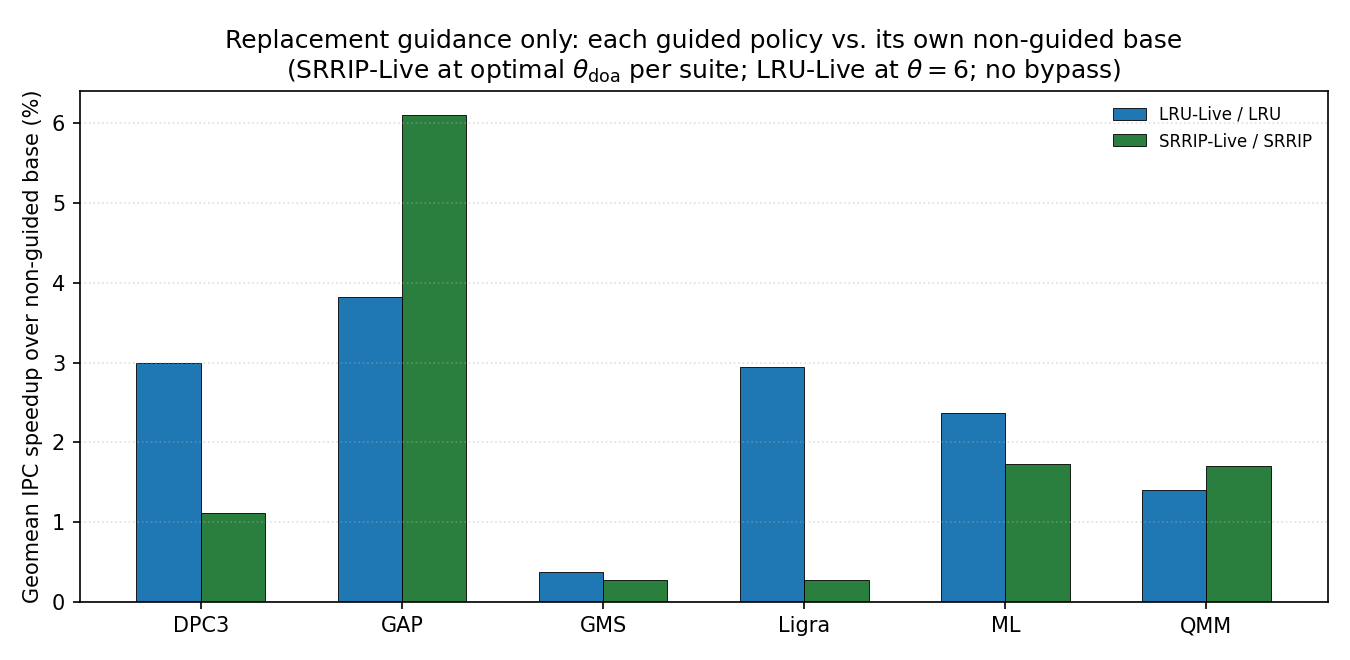
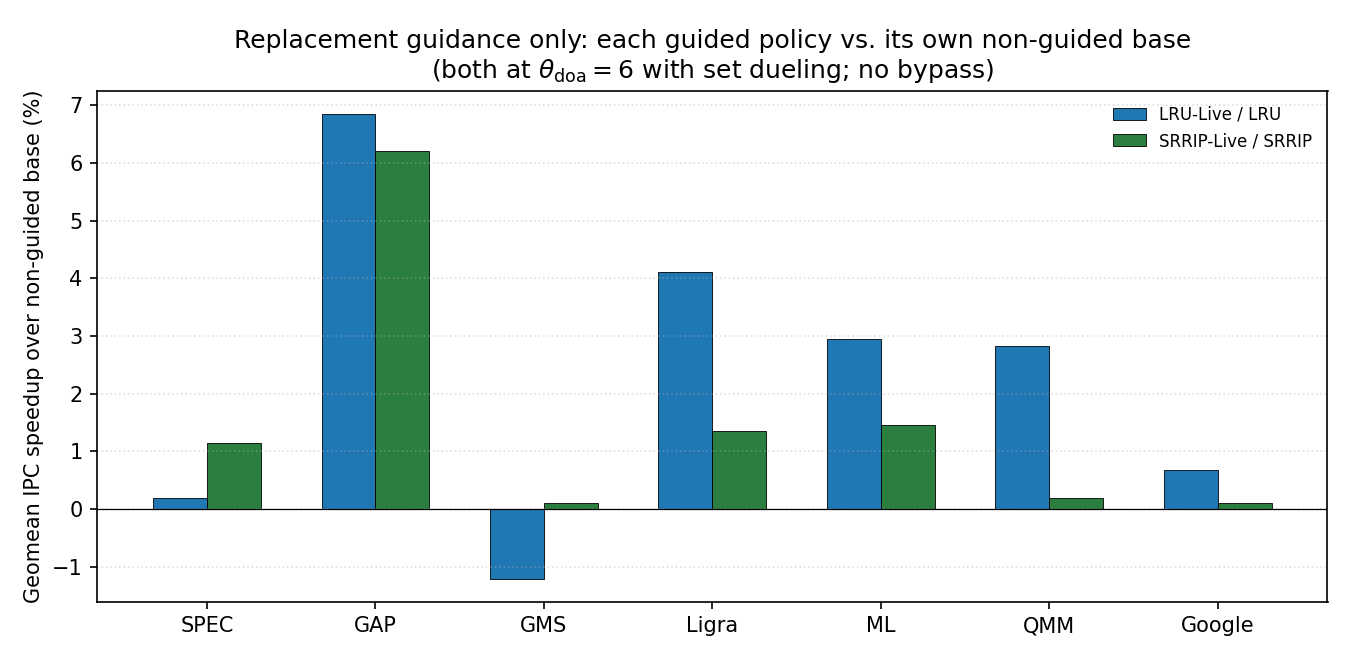
paper: rerender Figure 5 with consistent methodology, remove old Figure 4
plot_live_vs_base.py had hardcoded numbers from a mixed methodology:
SRRIP-Live at an old per-suite-optimal non-dueling threshold, LRU-Live
at a fixed single arm, and Google missing from the suite list entirely.
Rewrote it to compute live from baselines/lru, baselines/srrip, and the
theta=6 set-dueling result dirs -- both policies at the same anchor and
duel config used everywhere else in the paper, all 7 suites.

This changes the numbers: LRU-Live is now the stronger policy on 5 of 7
suites (was previously described as trading the top spot with SRRIP-Live
roughly evenly), and LRU-Live is actually negative on GMS (-1.2%) rather
than the old script's positive +0.38% -- the old numbers simply predate
the set-dueling methodology established later. Updated the prose in
Section VI.B to match; left the paper's "we adopt SRRIP-Live... at
competitive performance" conclusion itself untouched since revising that
recommendation is an editorial call, not a mechanical figure update.

Removed the old Figure 4 (per-benchmark/per-trace policy comparison,
fig:perpolicy) and its describing paragraph per explicit request. All
later figure numbers shift down by one (old Figure 5 is now Figure 4,
etc.) -- verified via a full two-pass pdflatex rebuild and the .aux
newlabel entries.

diff --git a/scripts/analysis/plot_live_vs_base.py b/scripts/analysis/plot_live_vs_base.py
@@ -1,46 +1,108 @@
 #!/usr/bin/env python3
 """Liveness contribution: each guided policy vs its OWN non-guided base
-(LRU-Live/LRU, SRRIP-Live/SRRIP) — optimal theta_doa per suite, no bypass.
+(LRU-Live/LRU, SRRIP-Live/SRRIP), no bypass. Both policies at the common
+THD_DOA=6 anchor with set dueling -- the current, consistent methodology
+(matches the arch-rerun scripts and Figure 2), not the old mixed one
+(SRRIP-Live at a per-suite-optimal non-dueling threshold, LRU-Live at a
+fixed single arm) this plot used previously.
 
 Sources:
-  SRRIP-Live: canonical phase sweep (allsuites_thd_phase{2,3}) at optimal
-    theta_doa per suite vs phase1/srrip baseline (champsim_srrip).
-    DPC3: theta=25 (95 traces, SimPoint-weighted); GAP: theta=6; GMS: theta=30;
-    Ligra: theta=25; ML: theta=16; QMM: theta=16.
-  LRU-Live: lru_live_vs_base_20260615_0855 vs baselines/lru at theta=6
-    (no threshold sweep available for LRU-Live).
+  LRU-Live:   results/lru_live_theta6_20260624_0126/.../duel vs baselines/lru
+  SRRIP-Live: results/srrip_live_theta6_20260623_1834/duel  vs baselines/srrip
 """
+import math
+import sys
+from pathlib import Path
+
 import matplotlib
 matplotlib.use("Agg")
 import matplotlib.pyplot as plt
 
-SUITES = ["DPC3", "GAP", "GMS", "Ligra", "ML", "QMM"]
+ROOT = Path(__file__).resolve().parents[2]
+sys.path.insert(0, str(Path(__file__).parent))
+from spec_weights import benchmark_weighted_geomean_pct  # noqa: E402
 
-# vs own non-guided base, % (DPC3 SimPoint-weighted; other suites flat geomean)
-# SRRIP-Live at optimal theta_doa per suite from canonical phase sweep (2026-06-20)
-SRRIP_LIVE = [1.11, 6.10, 0.27, 0.28, 1.73, 1.70]
-# LRU-Live at theta=6 (no sweep; never contaminated)
-LRU_LIVE   = [2.99, 3.82, 0.38, 2.95, 2.37, 1.40]
+LRU_LIVE_DIR = ROOT / "results" / "lru_live_theta6_20260624_0126" / "lru_live_theta6_20260624_0126" / "duel"
+SRRIP_LIVE_DIR = ROOT / "results" / "srrip_live_theta6_20260623_1834" / "duel"
 
-SERIES = [("LRU-Live / LRU",     LRU_LIVE,   "#1f77b4"),
-          ("SRRIP-Live / SRRIP", SRRIP_LIVE, "#2a7f3f")]
+SUITES = {"dpc3": "SPEC", "gap": "GAP", "gms": "GMS", "ligra": "Ligra",
+          "ml": "ML", "qmm": "QMM", "google": "Google"}
+WEIGHTED = {"dpc3"}
 
-x = list(range(len(SUITES)))
-w = 0.32
-fig, ax = plt.subplots(figsize=(9, 4.4))
-for i, (label, vals, color) in enumerate(SERIES):
-    off = (i - 0.5) * w
-    ax.bar([xi + off for xi in x], vals, w,
-           label=label, color=color, edgecolor="black", linewidth=0.4)
 
-ax.axhline(0, color="black", linewidth=0.6)
-ax.set_xticks(x); ax.set_xticklabels(SUITES)
-ax.set_ylabel("Geomean IPC speedup over non-guided base (%)")
-ax.set_title("Replacement guidance only: each guided policy vs. its own non-guided base\n"
-             "(SRRIP-Live at optimal $\\theta_{\\mathrm{doa}}$ per suite; LRU-Live at $\\theta=6$; no bypass)")
-ax.legend(frameon=False, fontsize=8)
-ax.grid(axis="y", linestyle=":", alpha=0.4)
-fig.tight_layout()
-out = "results/plots/live_vs_base.png"
-fig.savefig(out, dpi=150)
-print("wrote", out)
+def get_ipc(path):
+    try:
+        for line in reversed(Path(path).read_text().splitlines()):
+            if "CPU 0 cumulative IPC:" in line:
+                return float(line.split()[4])
+    except Exception:
+        pass
+    return None
+
+
+def suite_pct(base_dir, live_dir, suite):
+    bdir, ldir = base_dir / suite, live_dir / suite
+    if not bdir.is_dir() or not ldir.is_dir():
+        return None
+    base = {td.name: get_ipc(td / "champsim.out") for td in bdir.iterdir() if td.is_dir()}
+    base = {k: v for k, v in base.items() if v}
+    ratios = {}
+    for tr, b in base.items():
+        live = get_ipc(ldir / tr / "champsim.out")
+        if live and b > 0:
+            ratios[tr] = live / b
+    if len(ratios) < 3:
+        return None
+    if suite in WEIGHTED:
+        return benchmark_weighted_geomean_pct(ratios)
+    g = math.exp(sum(math.log(r) for r in ratios.values()) / len(ratios))
+    return (g - 1.0) * 100.0
+
+
+def main():
+    configs = {
+        "LRU-Live / LRU": (ROOT / "results" / "baselines" / "lru", LRU_LIVE_DIR, "#1f77b4"),
+        "SRRIP-Live / SRRIP": (ROOT / "results" / "baselines" / "srrip", SRRIP_LIVE_DIR, "#2a7f3f"),
+    }
+
+    order = ["dpc3", "gap", "gms", "ligra", "ml", "qmm", "google"]
+    results = {}
+    for label, (base_dir, live_dir, _color) in configs.items():
+        results[label] = {}
+        for suite in order:
+            pct = suite_pct(base_dir, live_dir, suite)
+            if pct is not None:
+                results[label][suite] = pct
+
+    suites = [s for s in order if all(s in results[label] for label in configs)]
+    labels = [SUITES[s] for s in suites]
+
+    x = list(range(len(suites)))
+    w = 0.32
+    fig, ax = plt.subplots(figsize=(9, 4.4))
+    for i, (label, (_bd, _ld, color)) in enumerate(configs.items()):
+        vals = [results[label][s] for s in suites]
+        off = (i - 0.5) * w
+        ax.bar([xi + off for xi in x], vals, w,
+               label=label, color=color, edgecolor="black", linewidth=0.4)
+
+    ax.axhline(0, color="black", linewidth=0.6)
+    ax.set_xticks(x); ax.set_xticklabels(labels)
+    ax.set_ylabel("Geomean IPC speedup over non-guided base (%)")
+    ax.set_title("Replacement guidance only: each guided policy vs. its own non-guided base\n"
+                 r"(both at $\theta_{\mathrm{doa}}=6$ with set dueling; no bypass)")
+    ax.legend(frameon=False, fontsize=8)
+    ax.grid(axis="y", linestyle=":", alpha=0.4)
+    fig.tight_layout()
+    out = ROOT / "results" / "plots" / "live_vs_base.png"
+    fig.savefig(out, dpi=150)
+    print("wrote", out)
+
+    print("\nGeomean speedup over own non-guided base (%):")
+    for label in configs:
+        row = "  ".join("%s=%+.2f%%" % (SUITES[s], results[label][s]) for s in suites)
+        print("  %-20s %s" % (label, row))
+
+
+if __name__ == "__main__":
+    main()

diff --git a/results/paper/main.tex b/results/paper/main.tex
@@ -676,18 +676,14 @@ on genuinely live \textsc{PC}s, sharpening the dead-or-alive boundary.
 
 Figure~\ref{fig:live_vs_base} reports the liveness contribution of each guided
 replacement policy, measured against its \emph{own} non-guided base
-(\srrip-Live vs.\ \srrip, \lru-Live vs.\ \lru), with no bypass.
+(\srrip-Live vs.\ \srrip, \lru-Live vs.\ \lru), with no bypass, both at the
+common $\theta_{\mathrm{doa}}=6$ anchor with set dueling.
 This isolates the benefit of the liveness signal from any base-policy effect.
-Both policies are positive on every suite; \srrip-Live reaches $+6.1\%$ on GAP at
-its optimal threshold, and \lru-Live reaches $+3.8\%$ on GAP. The two policies
-trade the top spot across suites; we adopt \srrip-Live for its lower per-block state
+\lru-Live leads on most suites, reaching $+6.9\%$ on GAP, and is negative only
+on GMS ($-1.2\%$); \srrip-Live is more consistently modest across suites (from
+$+0.1\%$ on Google to $+6.2\%$ on GAP) and is the only one of the two that
+stays positive on GMS. We adopt \srrip-Live for its lower per-block state
 (2-bit \rrpv vs.\ $\lceil\log_2 N\rceil$) at competitive performance.
-
-Figure~\ref{fig:perpolicy} breaks this down per benchmark for a representative
-spread. The policies frequently \emph{disagree}: \srrip-Live wins decisively on
-\texttt{xalancbmk} ($+39\%$) and certain ML traces, while \lru-Live wins on Ligra
-kernels and \texttt{mcf} where \srrip-Live is slightly negative. No single policy
-dominates per-workload, motivating the suite-level threshold optimisation.
 
 \begin{figure*}[t!]
 \centering
@@ -818,25 +814,12 @@ traffic is spread across tens of thousands of unique PCs and small capacities
 evict most of those PCs before they accumulate enough evidence to be
 classified \doa.
 
-\begin{figure*}[t!]
-\centering
-\includegraphics[width=0.95\textwidth]{../plots/per_benchmark_policies.png}
-\caption{Per-benchmark replacement-guidance contribution (no bypass): \lru-Live
-  and \srrip-Live each vs.\ its own non-guided base, for a representative spread
-  of traces (extreme outliers $>$50\% omitted for readability). \srrip-Live at
-  optimal $\theta_{\mathrm{doa}}$ per suite; \lru-Live at $\theta_{\mathrm{doa}}=6$.
-  Policies win on different workloads.}
-
-\label{fig:perpolicy}
-\end{figure*}
-
 \begin{figure}[t!]
 \centering
 \includegraphics[width=\linewidth]{../plots/live_vs_base.png}
 \caption{Replacement-guidance only (no bypass): geomean IPC speedup of each guided
-  policy over its \emph{own} non-guided base (\lru-Live/\lru, \srrip-Live/\srrip).
-  \srrip-Live at optimal $\theta_{\mathrm{doa}}$ per suite; \lru-Live at
-  $\theta_{\mathrm{doa}}=6$ (no sweep available).}
+  policy over its \emph{own} non-guided base (\lru-Live/\lru, \srrip-Live/\srrip),
+  both at $\theta_{\mathrm{doa}}=6$ with set dueling.}
 \label{fig:live_vs_base}
 \end{figure}
 
